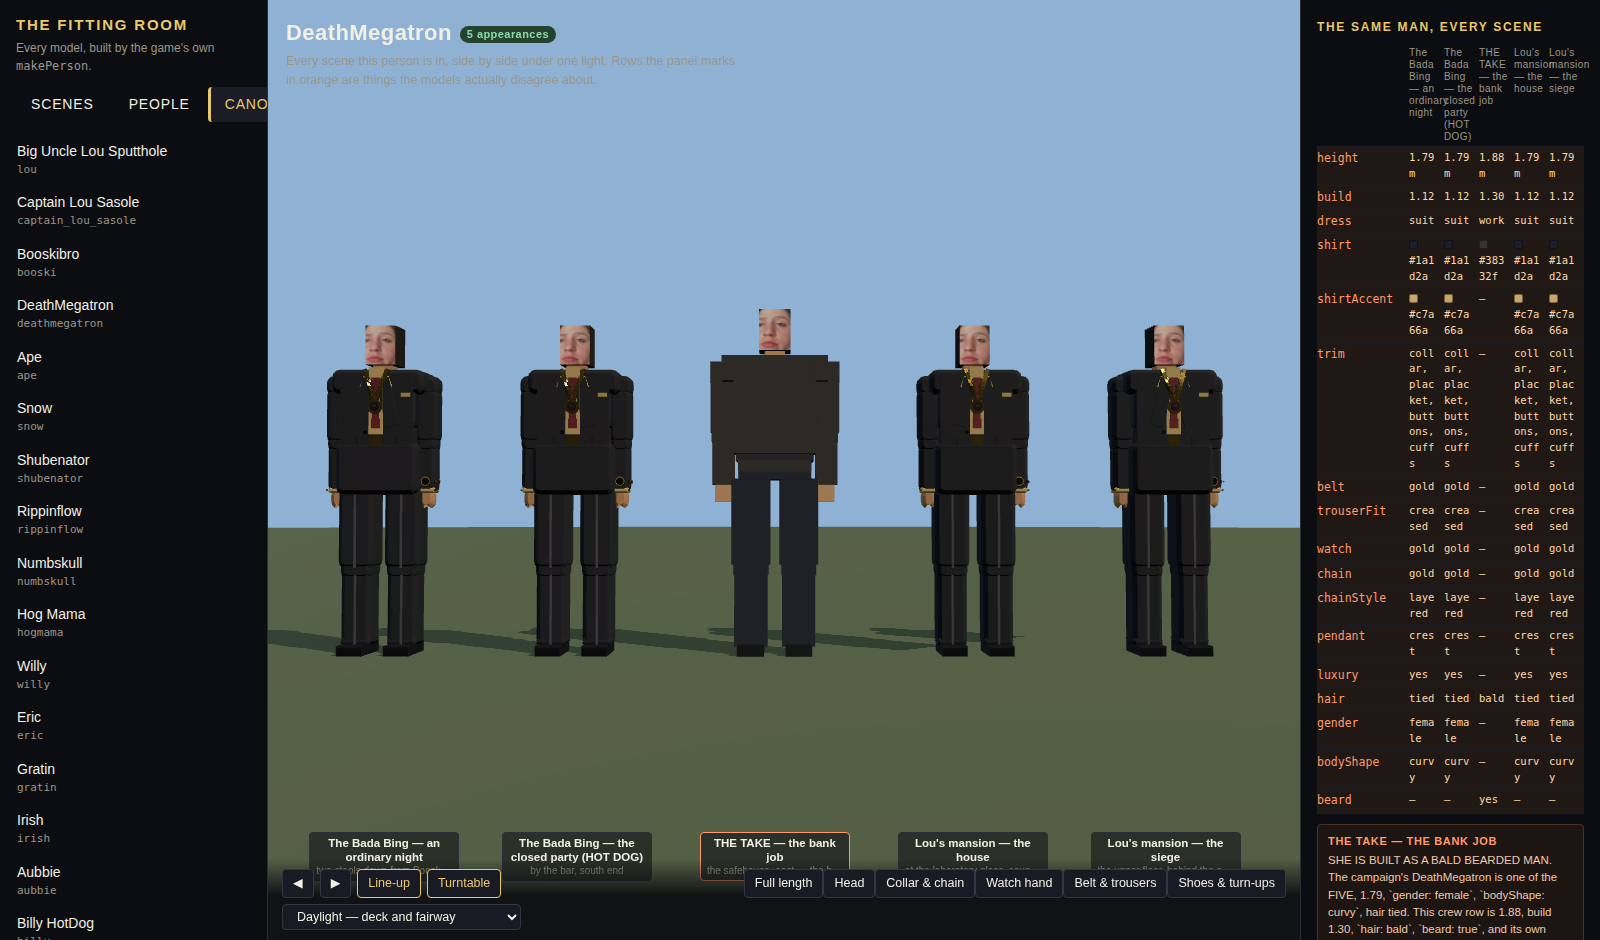
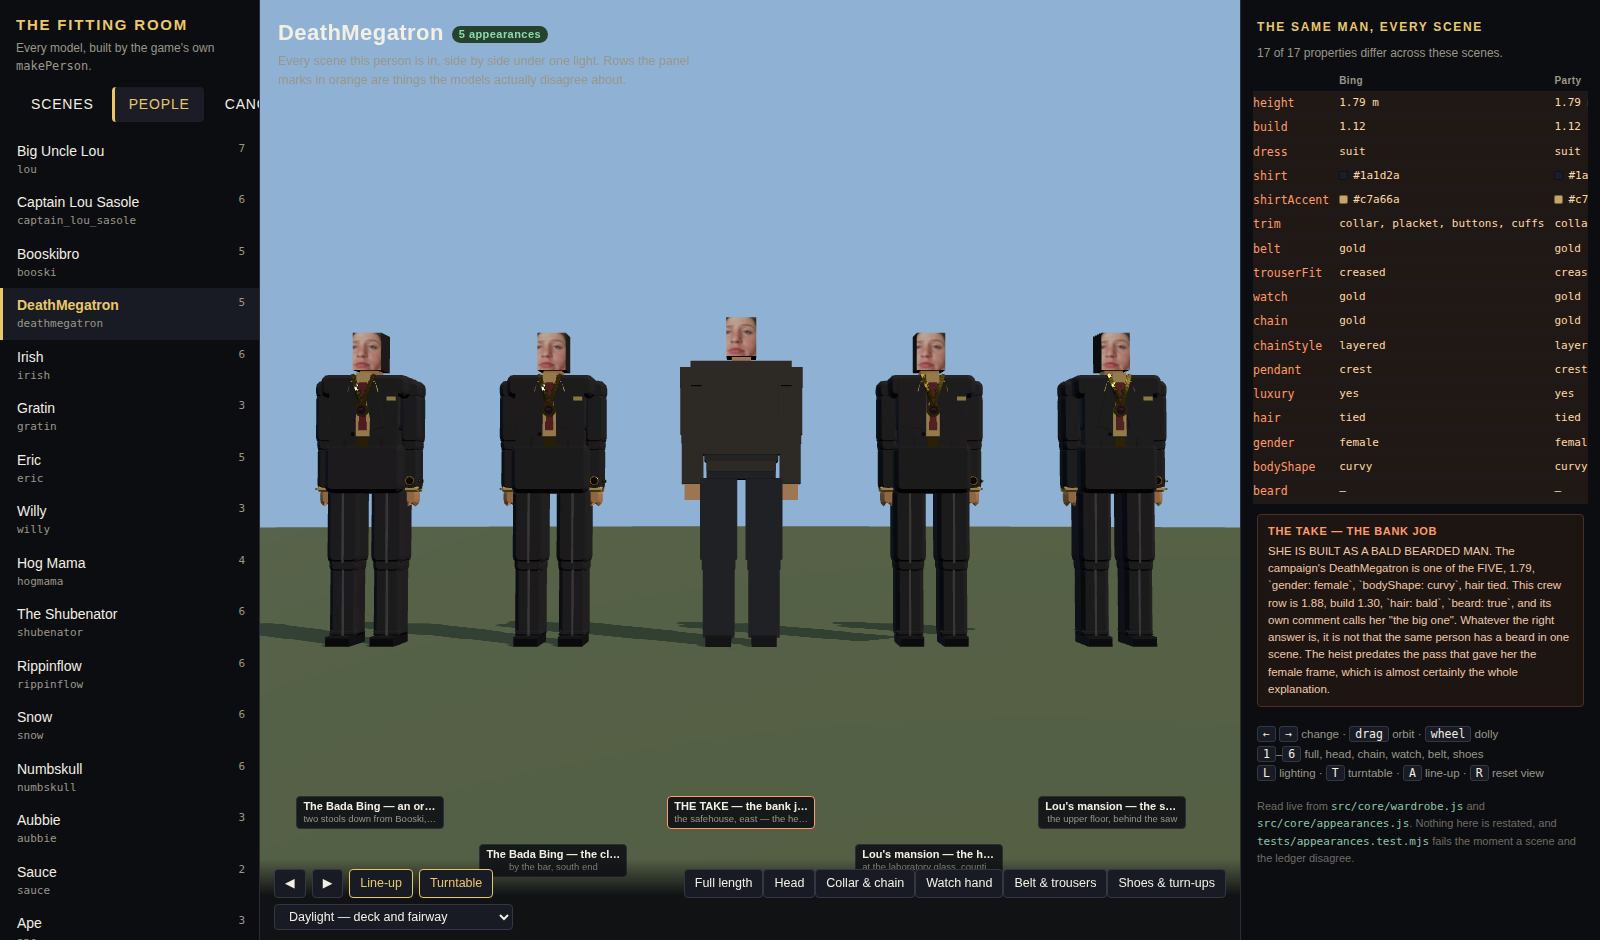
Wardrobe workshop: the agent's next in-flight state
Same situation as the last capture -- the agent is still working in the main
tree rather than a worktree, and the tree has to be clean. Green at this point:
866 tests, npm run check clean, verify:mansion-siege 53/53. Superseded when it
reports.

Claude-Session: https://claude.ai/code/session_017xXVj8xfo7kzcodEfhsGLQ

diff --git a/wardrobe.html b/wardrobe.html
@@ -11,7 +11,7 @@
   html, body { height: 100%; margin: 0; }
   body {
     display: grid;
-    grid-template-columns: 268px 1fr 300px;
+    grid-template-columns: 260px 1fr 360px;
     /* An explicit single row of exactly the viewport. Without it the row is
      * sized to the tallest item -- the scrolling rail -- and the canvas, which
      * asks for 100% of a cell whose height depends on the canvas, resolves to
@@ -53,19 +53,27 @@
   main { position: relative; }
   canvas { display: block; width: 100%; height: 100%; }
 
-  /* ---- who is who, under the line-up ---- */
-  .strip { position: absolute; left: 0; right: 0; bottom: 46px; height: 62px; pointer-events: none; }
+  /* ---- who is who, under the line-up ----
+   * Staggered on two lines by index parity. At eight figures the widest
+   * names still touch on one line, and a caption under the wrong man is
+   * worse than no caption. */
+  .strip { position: absolute; left: 0; right: 0; bottom: 48px; height: 96px; pointer-events: none; }
   .strip .chip {
     position: absolute; transform: translateX(-50%); text-align: center;
-    max-width: 150px; pointer-events: auto; cursor: pointer;
-    background: #10111799; border: 1px solid #2b2d38; border-radius: 4px;
-    padding: 3px 6px; backdrop-filter: blur(3px);
+    width: 148px; pointer-events: auto; cursor: pointer;
+    background: #0e0f14e0; border: 1px solid #2b2d38; border-radius: 4px;
+    padding: 3px 6px;
   }
-  .strip .chip b { display: block; font-size: 11.5px; font-weight: 700; line-height: 1.25; }
-  .strip .chip span { display: block; font-size: 10px; color: var(--muted); line-height: 1.25;
+  .strip .chip:nth-child(odd) { top: 0; }
+  .strip .chip:nth-child(even) { top: 48px; }
+  .strip .chip b { display: block; font-size: 11px; font-weight: 700; line-height: 1.2;
     overflow: hidden; text-overflow: ellipsis; white-space: nowrap; }
-  .strip .chip:hover { border-color: var(--gold); }
+  .strip .chip span { display: block; font-size: 9.5px; color: var(--muted); line-height: 1.2;
+    overflow: hidden; text-overflow: ellipsis; white-space: nowrap; }
+  .strip .chip:hover { border-color: var(--gold); z-index: 5; }
   .strip .chip.flag { border-color: var(--warn); }
+  #page { display: none; align-items: center; gap: 5px; color: var(--muted); font-size: 12px; }
+  #page.on { display: flex; }
 
   .hud {
     position: absolute; left: 0; right: 0; bottom: 0;
@@ -92,10 +100,22 @@
   td.k, th.k { color: var(--muted); width: 92px; font-family: ui-monospace, Consolas, monospace; font-size: 11.5px; font-weight: 400; }
   td.v { font-family: ui-monospace, Consolas, monospace; color: #8fc4a8; font-size: 11.5px; word-break: break-word; }
   /* The comparison table. `differs` is COMPUTED from the models, never typed:
-   * see compare() in src/wardrobe/preview.js. */
-  table.cmp { table-layout: fixed; }
-  table.cmp th { font-size: 10px; color: var(--muted); letter-spacing: .04em; font-weight: 400; line-height: 1.2; }
-  table.cmp td.v { font-size: 10.5px; padding-right: 4px; }
+   * see compare() in src/wardrobe/preview.js.
+   *
+   * IT SCROLLS SIDEWAYS RATHER THAN WRAPPING, and that is the whole of its
+   * layout. Seven columns squeezed into a 340px panel came back from the
+   * first contact sheet as seven columns one character wide -- "1.83 m" down
+   * the page as "1.8 / 3 m" -- which is a comparison nobody can read. So:
+   * intrinsic width, nowrap cells, and an overflow container round it. */
+  .scroller { overflow-x: auto; margin: 0 -4px; }
+  table.cmp { width: max-content; min-width: 100%; }
+  table.cmp th, table.cmp td { white-space: nowrap; padding-right: 10px; }
+  table.cmp th { font-size: 10px; color: var(--muted); letter-spacing: .04em; font-weight: 700; }
+  table.cmp td.v { font-size: 11px; }
+  table.cmp td.k, table.cmp th.k {
+    position: sticky; left: 0; background: #0c0d11; padding-right: 10px; width: auto;
+  }
+  tr.differs td.k { background: #201814; }
   tr.differs td.k { color: var(--warn); }
   tr.differs td.v { color: #ffd8a8; }
   tr.differs { background: #201814; }
@@ -135,6 +155,7 @@
     <button id="next" title="Next (→)">▶</button>
     <button id="lineup" aria-pressed="false" title="The whole rail together (A)">Line-up</button>
     <button id="spin" aria-pressed="true" title="Turntable (T)">Turntable</button>
+    <span id="page"><button id="pagePrev" title="Previous eight">◁</button><span id="pageAt"></span><button id="pageNext" title="Next eight">▷</button></span>
     <span class="spacer"></span>
     <span id="marks"></span>
     <select id="rig" title="Lighting rig (L)"></select>
@@ -182,9 +203,15 @@ const room = createFittingRoom(canvas, { faces });
 const SCENE_LIST = Object.values(SCENES);
 const PEOPLE = ledgerCharacters();
 const railEl = document.getElementById('rail');
-let tab = 'canonical';
+
+/* The rail follows the ROOM, not a variable of its own. The shot tool drives
+ * `room.showScene(...)` directly and never touches a tab, and a sidebar that
+ * disagreed with the picture beside it was the first thing the contact sheet
+ * showed. */
+const tabOf = () => room.state.view;
 
 function buildRail() {
+  const tab = tabOf();
   railEl.innerHTML = '';
   const add = (title, sub, count, onClick, current) => {
     const b = document.createElement('button');
@@ -215,12 +242,8 @@ function buildRail() {
 }
 
 function setTab(next) {
-  tab = next;
-  for (const [id, key] of [['tab-scene', 'scene'], ['tab-character', 'character'], ['tab-canonical', 'canonical']]) {
-    document.getElementById(id).setAttribute('aria-pressed', String(tab === key));
-  }
-  if (tab === 'scene') selectScene(room.state.view === 'scene' ? room.state.subject : SCENE_LIST[0].id);
-  else if (tab === 'character') selectCharacter(room.state.view === 'character' ? room.state.subject : PEOPLE[0].id);
+  if (next === 'scene') selectScene(room.state.view === 'scene' ? room.state.subject : SCENE_LIST[0].id);
+  else if (next === 'character') selectCharacter(room.state.view === 'character' ? room.state.subject : PEOPLE[0].id);
   else selectCanonical(room.state.index);
 }
 document.getElementById('tab-scene').addEventListener('click', () => setTab('scene'));
@@ -272,13 +295,42 @@ function paintOne(model) {
 function paintCompare(appearances) {
   const { columns, rows } = compare(appearances);
   if (columns.length < 2) return columns.length ? paintOne(columns[0].appearance.model) : '';
-  const head = columns.map((c) => `<th class="v">${c.label}</th>`).join('');
+  const head = columns.map((c) => `<th class="v" title="${c.full} — ${c.where}">${c.label}</th>`).join('');
   const body = rows.map((r) => `<tr class="${r.differs ? 'differs' : ''}">`
     + `<td class="k">${r.key}</td>`
     + r.values.map((v) => `<td class="v">${swatchFor(v)}${v}</td>`).join('')
     + '</tr>').join('');
-  return `<table class="cmp"><thead><tr><th class="k"></th>${head}</tr></thead>`
-    + `<tbody>${body}</tbody></table>`;
+  const differing = rows.filter((r) => r.differs).length;
+  /* Its own scroller. Six columns of hex in a 300px panel is a table that
+   * wraps to one character per line, which is how the first version of this
+   * came back from the screenshot. */
+  return `<p class="sub" style="margin:0 0 8px">${differing} of ${rows.length} `
+    + 'properties differ across these scenes.</p>'
+    + `<div class="scroller"><table class="cmp"><thead><tr><th class="k"></th>${head}</tr></thead>`
+    + `<tbody>${body}</tbody></table></div>`;
+}
+
+/**
+ * A scene's roster, one line each, generated from the models.
+ *
+ * The full spec of seventeen people is four thousand pixels of scrolling and
+ * nobody reads it. What a scene view is for is "who is in this room and what
+ * have they broadly got on", so each row is the person, where he is, and the
+ * handful of `describe()` keys that separate one man from another.
+ */
+const AT_A_GLANCE = ['dress', 'height', 'shirt', 'belt', 'watch', 'chain'];
+function paintRoster(appearances) {
+  const rows = appearances.filter(isShowable).map((a) => {
+    const spec = new Map(describe(a.model));
+    const bits = AT_A_GLANCE
+      .filter((k) => spec.has(k))
+      .map((k) => `${swatchFor(spec.get(k))}${spec.get(k)}`)
+      .join(' · ');
+    return `<tr><td class="k" style="width:auto">${a.name}`
+      + `<span style="display:block;font-size:10px;color:#6f6c62">${a.where}</span></td>`
+      + `<td class="v">${bits}</td></tr>`;
+  }).join('');
+  return `<table><tbody>${rows}</tbody></table>`;
 }
 
 /** Anything the ledger flags, printed rather than summarised. */
@@ -343,12 +395,11 @@ function paint() {
 
   if (view === 'scene' && !solo) {
     const scene = SCENES[subject];
+    const cast = appearancesInScene(subject);
     titleEl.textContent = 'WHO IS IN THIS ROOM';
-    whoEl.textContent = scene.label;
+    whoEl.innerHTML = `${scene.label}<span class="badge photo">${cast.length}</span>`;
     noteEl.textContent = scene.note;
-    specEl.innerHTML = paintFlags(appearancesInScene(subject))
-      + appearancesInScene(subject).filter(isShowable)
-        .map((a) => `<h3>${a.name.toUpperCase()}</h3>${paintOne(a.model)}`).join('');
+    specEl.innerHTML = paintFlags(cast) + paintRoster(cast);
   } else if (view === 'character' && !solo) {
     const cast = appearancesOf(subject);
     titleEl.textContent = 'THE SAME MAN, EVERY SCENE';
@@ -385,6 +436,12 @@ function paint() {
 
   buildRail();
   for (const b of railEl.children) b.setAttribute('aria-current', b.dataset.current);
+  for (const [id, key] of [['tab-scene', 'scene'], ['tab-character', 'character'], ['tab-canonical', 'canonical']]) {
+    document.getElementById(id).setAttribute('aria-pressed', String(tabOf() === key));
+  }
+  const pager = document.getElementById('page');
+  pager.classList.toggle('on', room.state.pages > 1);
+  document.getElementById('pageAt').textContent = `${room.state.page + 1}/${room.state.pages}`;
   for (const b of marksEl.children) {
     b.setAttribute('aria-pressed', String(solo && b.dataset.mark === room.state.mark));
   }
@@ -431,8 +488,18 @@ function step(delta) {
   }
 }
 
+function turnPage(delta) {
+  const page = room.state.page + delta;
+  if (page < 0 || page >= room.state.pages) return;
+  if (room.state.view === 'scene') room.showScene(room.state.subject, { keepRig: true, page });
+  else if (room.state.view === 'character') room.showCharacter(room.state.subject, { page });
+  paint();
+}
+
 document.getElementById('prev').addEventListener('click', () => step(-1));
 document.getElementById('next').addEventListener('click', () => step(1));
+document.getElementById('pagePrev').addEventListener('click', () => turnPage(-1));
+document.getElementById('pageNext').addEventListener('click', () => turnPage(1));
 document.getElementById('lineup').addEventListener('click', () => {
   if (room.state.row.length > 1) {
     if (room.state.view === 'scene') room.showAppearance(appearancesInScene(room.state.subject).filter(isShowable)[0]);
@@ -472,6 +539,8 @@ addEventListener('keydown', (e) => {
   else if (e.key.toLowerCase() === 't') { room.state.turntable = !room.state.turntable; paint(); }
   else if (e.key.toLowerCase() === 'a') { document.getElementById('lineup').click(); }
   else if (e.key.toLowerCase() === 'r') { room.applyMark(room.state.mark); room.state.yaw = 0; paint(); }
+  else if (e.key === '[') turnPage(-1);
+  else if (e.key === ']') turnPage(1);
   else if (e.key.toLowerCase() === 'l') {
     const next = RIG_KEYS[(RIG_KEYS.indexOf(room.state.rig) + 1) % RIG_KEYS.length];
     room.applyRig(next); paint();

diff --git a/src/wardrobe/preview.js b/src/wardrobe/preview.js
@@ -215,7 +215,8 @@ export function compare(appearances) {
   const shown = appearances.filter(isShowable);
   const columns = shown.map((a) => ({
     scene: a.scene,
-    label: SCENES[a.scene]?.label ?? a.scene,
+    label: SCENES[a.scene]?.short ?? a.scene,
+    full: SCENES[a.scene]?.label ?? a.scene,
     where: a.where,
     appearance: a,
   }));
@@ -321,6 +322,13 @@ export function createFittingRoom(canvas, { faces = new Set() } = {}) {
      * Beef Run's block rig. Carried so the page can still say the person is
      * in that scene instead of silently dropping him. */
     unshown: [],
+    /* Which slice of a long scene is on the stand, and how many slices there
+     * are. The Bing floor is twenty people and the mansion seventeen; the
+     * original rail already learned that a row that long puts each man at a
+     * sixth of the frame, which is enough to see that they read as one
+     * family and not enough to see anything else. */
+    page: 0,
+    pages: 1,
   };
 
   function faceUrl(entry) {
@@ -355,6 +363,8 @@ export function createFittingRoom(canvas, { faces = new Set() } = {}) {
     state.view = 'canonical';
     state.subject = null;
     state.unshown = [];
+    state.page = 0;
+    state.pages = 1;
     clearStand();
     const entry = RAIL[state.index];
     const person = buildOne(entry);
@@ -378,6 +388,21 @@ export function createFittingRoom(canvas, { faces = new Set() } = {}) {
    *
    * @param {{label:string, sub:string, model:object, face:?string}[]} items
    */
+  /**
+   * The slice of a long row that is worth looking at.
+   *
+   * Eight, because that is what the canonical rail already settled on after
+   * sixteen came back unreadable, and because at eight a 1.83 m man still
+   * fills two thirds of the frame. Anything shorter than nine is one page and
+   * the control never appears.
+   */
+  const PAGE_SIZE = 8;
+  function paginate(items) {
+    state.pages = Math.max(1, Math.ceil(items.length / PAGE_SIZE));
+    state.page = Math.max(0, Math.min(state.page, state.pages - 1));
+    return items.slice(state.page * PAGE_SIZE, (state.page + 1) * PAGE_SIZE);
+  }
+
   function layOut(items) {
     clearStand();
     /* Spacing is by shoulder, not by name: a 1.45-build Numbskull beside a
@@ -423,6 +448,8 @@ export function createFittingRoom(canvas, { faces = new Set() } = {}) {
     state.lineupFrom = from;
     state.lineupCount = count;
     state.unshown = [];
+    state.page = 0;
+    state.pages = 1;
     return layOut(RAIL.slice(from, from + count).map((entry) => ({
       key: entry.key,
       label: entry.name,
@@ -438,6 +465,7 @@ export function createFittingRoom(canvas, { faces = new Set() } = {}) {
     state.view = state.view === 'canonical' ? 'scene' : state.view;
     state.lineup = false;
     state.unshown = [];
+    state.pages = 1;
     clearStand();
     const person = makePerson({
       ...appearance.model,
@@ -470,15 +498,17 @@ export function createFittingRoom(canvas, { faces = new Set() } = {}) {
    * warm bulb. Judging the Bing's people under a studio key is how a smear
    * gets signed off as jewellery.
    */
-  function showScene(sceneId, { keepRig = false } = {}) {
+  function showScene(sceneId, { keepRig = false, page = 0 } = {}) {
     const scene = SCENES[sceneId];
     if (!scene) return null;
+    if (state.subject !== sceneId || state.view !== 'scene') state.page = 0;
+    if (page !== null) state.page = page;
     state.view = 'scene';
     state.subject = sceneId;
     if (!keepRig) applyRig(scene.rig);
     const cast = appearancesInScene(sceneId);
     state.unshown = cast.filter((a) => !isShowable(a));
-    layOut(cast.filter(isShowable).map((a) => ({
+    layOut(paginate(cast.filter(isShowable)).map((a) => ({
       key: a.character,
       label: a.name,
       sub: a.where,
@@ -497,14 +527,16 @@ export function createFittingRoom(canvas, { faces = new Set() } = {}) {
    * here on purpose: a man compared across six rooms has to be compared under
    * ONE light, or every difference is a lighting difference.
    */
-  function showCharacter(characterId) {
+  function showCharacter(characterId, { page = 0 } = {}) {
     const cast = appearancesOf(characterId);
     if (cast.length === 0) return null;
+    if (state.subject !== characterId || state.view !== 'character') state.page = 0;
+    if (page !== null) state.page = page;
     state.view = 'character';
     state.subject = characterId;
     state.unshown = cast.filter((a) => !isShowable(a));
     const face = faceForCharacter(characterId);
-    layOut(cast.filter(isShowable).map((a) => ({
+    layOut(paginate(cast.filter(isShowable)).map((a) => ({
       key: `${a.character}.${a.scene}`,
       label: SCENES[a.scene]?.label ?? a.scene,
       sub: a.where,

diff --git a/src/core/appearances.js b/src/core/appearances.js
@@ -87,6 +87,10 @@ import {
 /* ====================================================================== *
  * THE SCENES
  *
+ * `short` is a column heading, and it exists because seven "Lou's mansion —
+ * the house" headings in a 300-pixel panel are seven columns one character
+ * wide. It is a label and nothing keys off it.
+ *
  * `rig` is the fitting room's lighting rig this scene is judged under, and
  * it is not decoration: a gold rope that reads under a studio key is a smear
  * under the Bing's one warm bulb, so a scene's people should default to the
